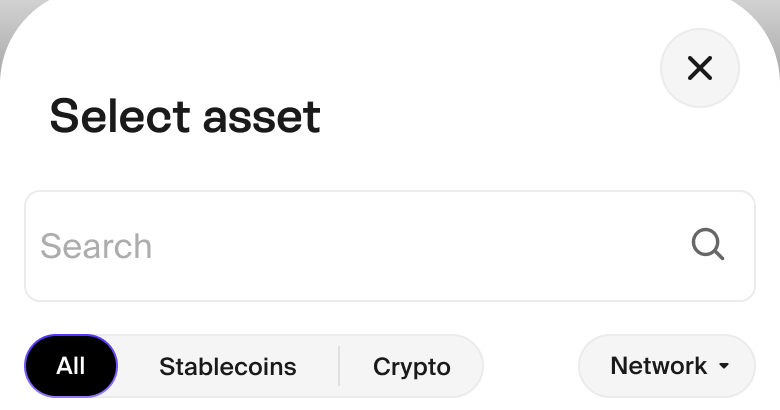
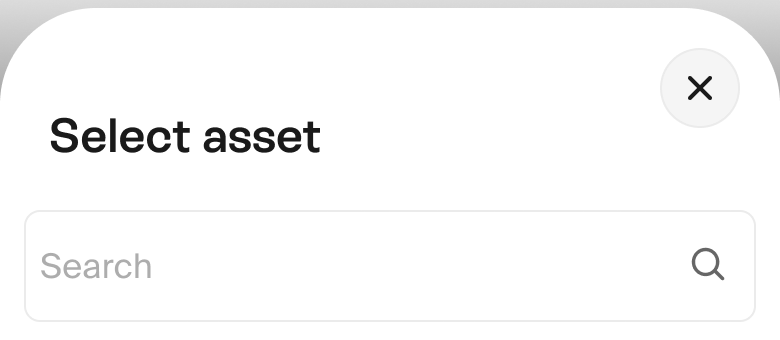
Trim asset modal header overlay to title and search

diff --git a/converter-mobile/buy.html b/converter-mobile/buy.html
@@ -250,7 +250,7 @@
               />
               <img
                 class="asset-modal__header-image"
-                src="./assets/screens/select-asset-header-crop.png?v=20260402-1625"
+                src="./assets/screens/select-asset-header-crop.png?v=20260402-1635"
                 alt=""
                 aria-hidden="true"
               />
